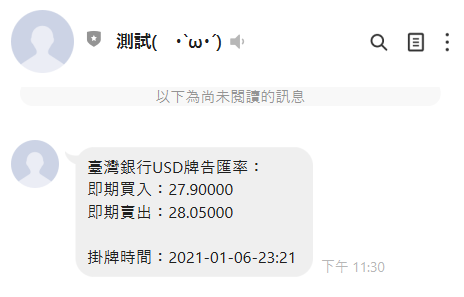
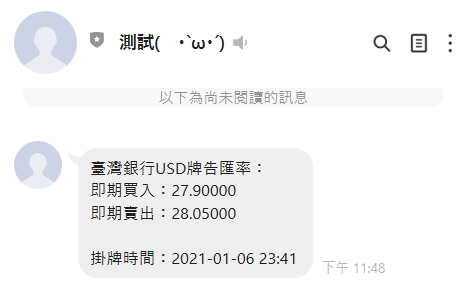
commit

diff --git a/content/posts/202101051417.md b/content/posts/202101051417.md
@@ -104,7 +104,7 @@ filter稍微冗長一點，`content-disposition`這個header中的filename剛好
 ```js
 newMsg = {};
 var f_match = msg.headers['content-disposition'].match(/filename="ExchangeRate@(\d+)/)[1];
-var date = f_match.slice(0, 4) + '-' + f_match.slice(4, 6) + '-' + f_match.slice(6, 8) + '-' + f_match.slice(8, 10) + ':' + f_match.slice(10, 12);
+var date = f_match.slice(0, 4) + '-' + f_match.slice(4, 6) + '-' + f_match.slice(6, 8) + ' ' + f_match.slice(8, 10) + ':' + f_match.slice(10, 12);
 var exchange = msg.payload.split('\n');
 var usd = exchange[1].split(/ +/);
 var message = '臺灣銀行'  + usd[0] + '牌告匯率： \\n即期買入：' + usd[3] + '\\n即期賣出：' + usd[13] + '\\n\\n掛牌時間：' + date
